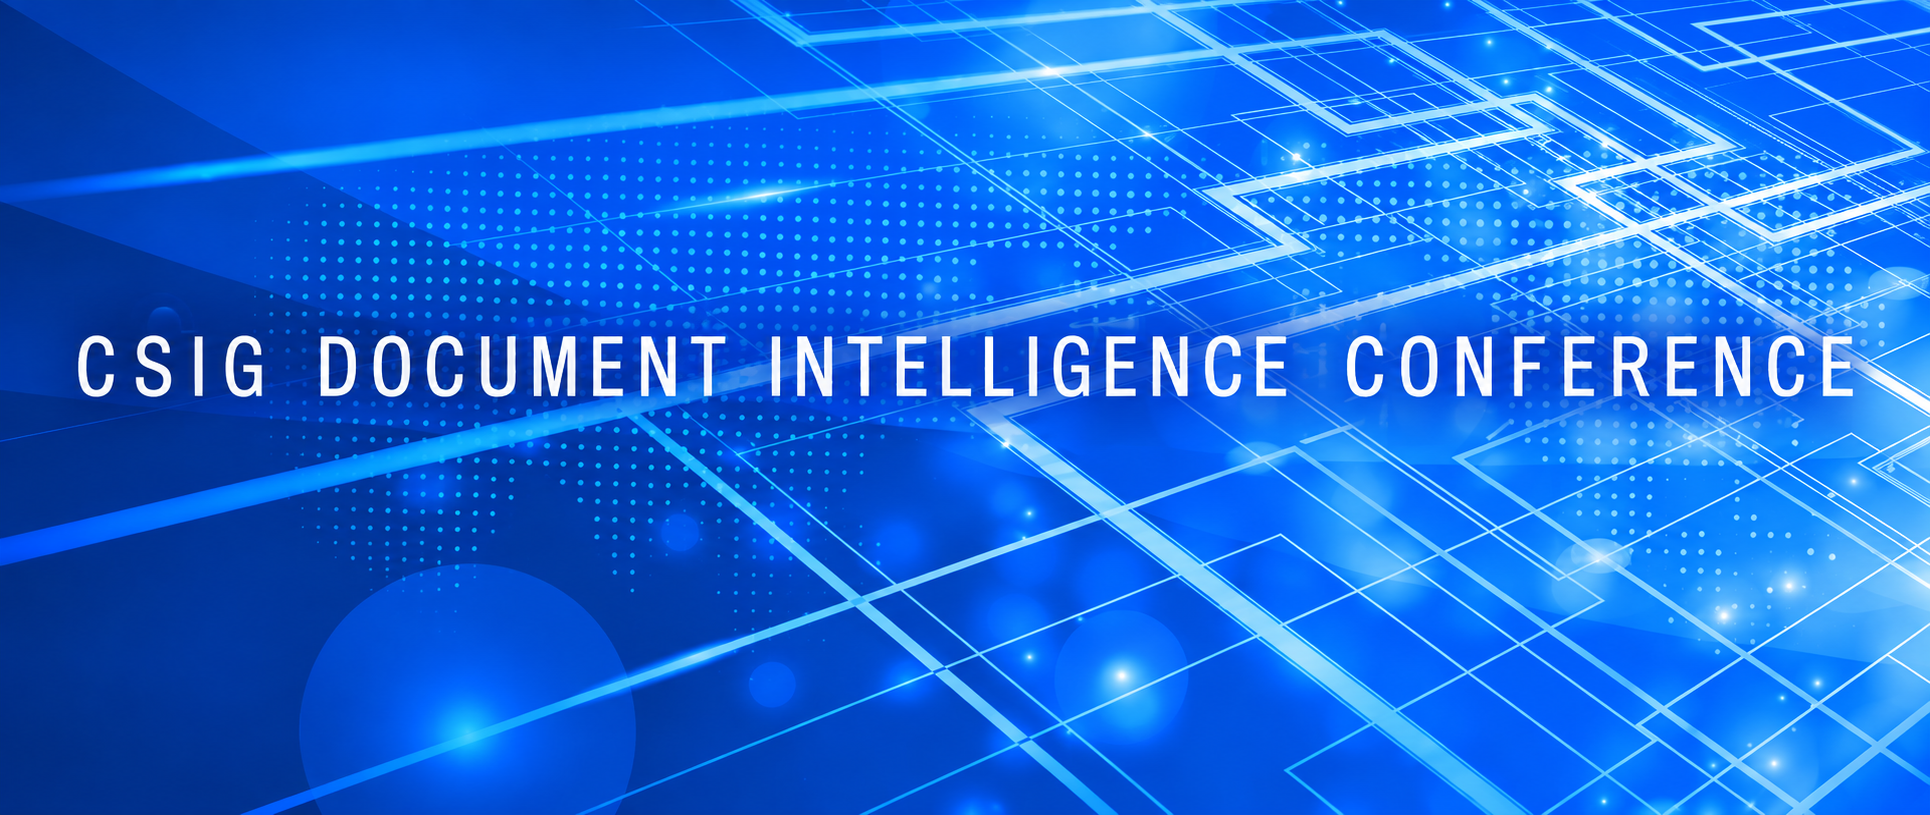
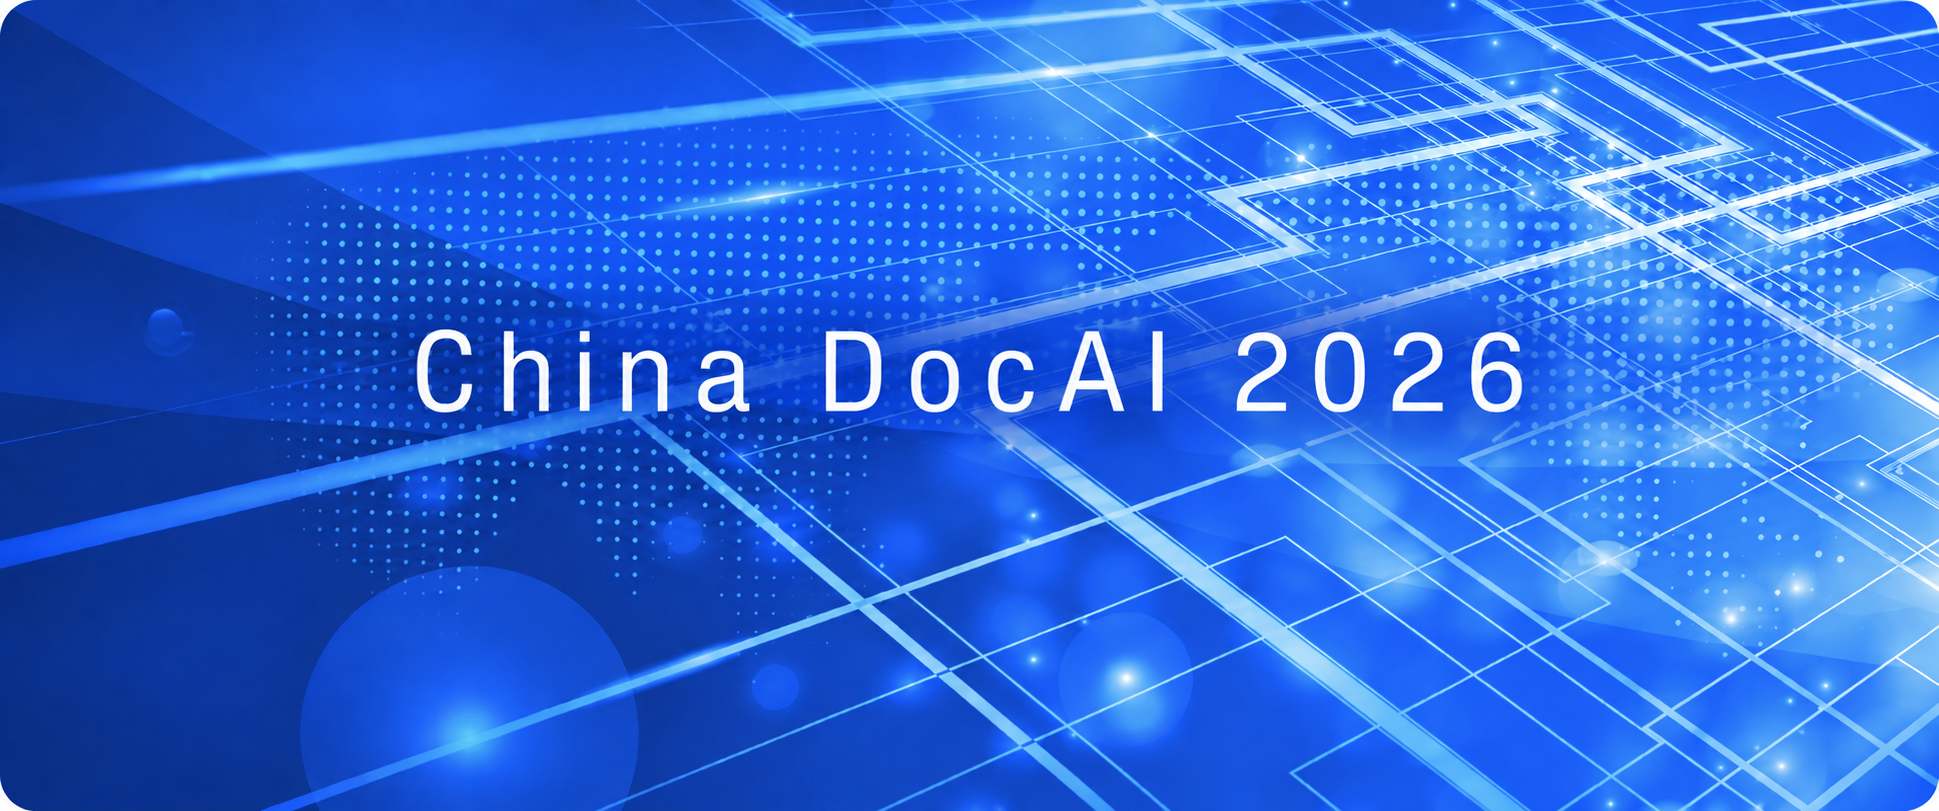
style: 缩小 Hero 与大会介绍之间的间隙
- Hero 底部内边距由 88px 减至 48px（移动端 56px→32px）
- 大会介绍顶部内边距由 96px 减至 64px（移动端 64px→48px）

diff --git a/src/components/Hero/Hero.module.css b/src/components/Hero/Hero.module.css
@@ -1,6 +1,6 @@
 .hero {
   position: relative;
-  padding: 96px var(--gutter) 88px;
+  padding: 96px var(--gutter) 48px;
   text-align: center;
   background: radial-gradient(
     circle at 50% 0%,
@@ -106,7 +106,7 @@
 
 @media (max-width: 768px) {
   .hero {
-    padding: 64px var(--gutter) 56px;
+    padding: 64px var(--gutter) 32px;
   }
 
   .meta {

diff --git a/src/components/ConferenceOverview/ConferenceOverview.module.css b/src/components/ConferenceOverview/ConferenceOverview.module.css
@@ -1,5 +1,5 @@
 .section {
-  padding: 96px var(--gutter);
+  padding: 64px var(--gutter) 96px;
 }
 
 .inner {
@@ -38,7 +38,7 @@
 
 @media (max-width: 768px) {
   .section {
-    padding: 64px var(--gutter);
+    padding: 48px var(--gutter) 64px;
   }
 
   .body {

diff --git a/.workbuddy/memory/2026-09-15.md b/.workbuddy/memory/2026-09-15.md
@@ -40,6 +40,15 @@
 - 坑（再犯）：commit_msg/pre 文件若存在于工作区，`git add -A` 会把它们卷进提交 → 推送后被 amend + `--force` 覆盖修正。以后 commit_msg 写到仓库外（如 $env:TEMP），或先删再 add。
 - 坑：安全过滤器对含 "poster-en.png" 的 Copy-Item/robocopy/.NET Copy 反复误拦，最后用 .cjs 脚本 + node 复制成功。
 
+## 文案/结构调整（commit 438f28a，已推送 main）
+
+- 英文会议名称统一为 **China DocAI 2026**：meta title、hero titleLine2、banner alt、description、footer 副标题，均替换原来的 Conference on Document Intelligence。
+- 删除中英文 Hero 下方的灰字副标题 "China DocAI 2026"，hero.subtitle 类型改为可选。
+- 删除"投稿系统"整栏：移除 App 渲染、导航、Submission 组件目录、类型与数据。
+- 删除投稿注意事项中的"原创论文稿件格式/Manuscript Format"条目，剩余条目重编为 01-03。
+- 删除页脚灰字副标题，footer.subtitle 类型与组件渲染一并移除。
+- 临时 commit 消息文件改放到 `$env:TEMP`，避免再被 `git add -A` 卷进提交。
+
 ## 环境备忘（本机 PowerShell/Bash 坑）
 
 - Bash 工具环境损坏（无 ls/dirname），用 PowerShell；且 PowerShell 工具 stdout 不显示，需写文件再 Read。
